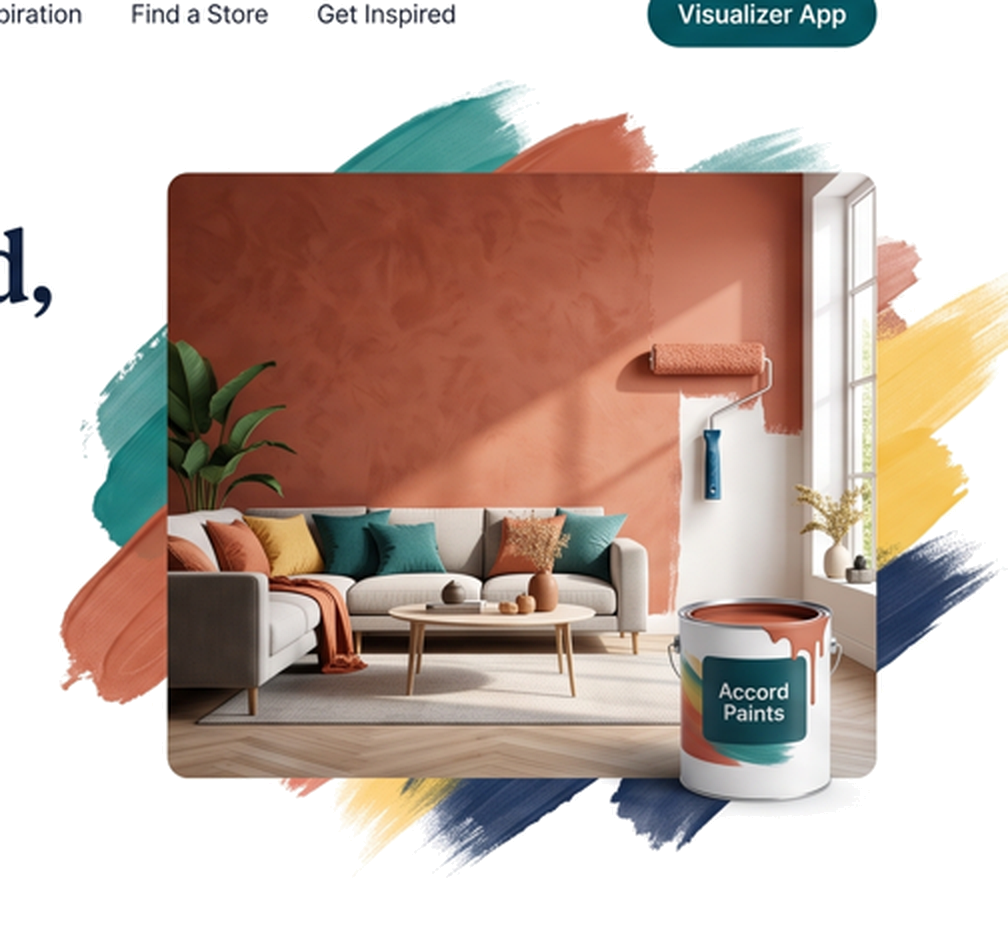
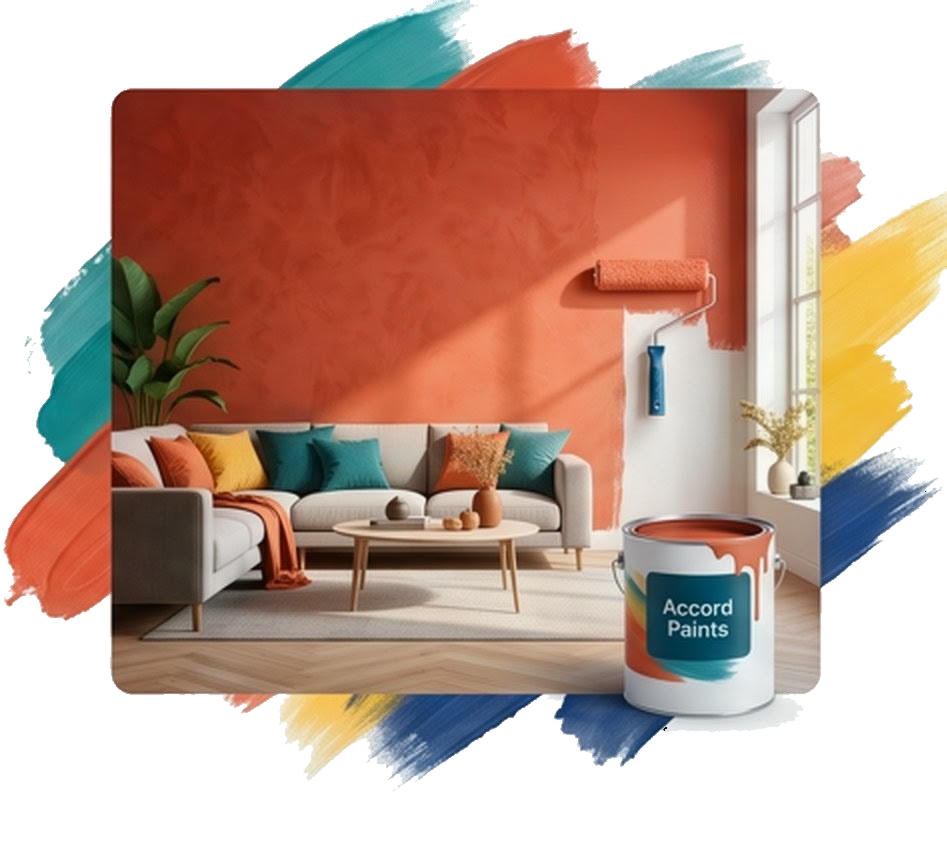
Replace hero visual with clean artwork without stray text

diff --git a/src/App.jsx b/src/App.jsx
@@ -1268,7 +1268,7 @@ export default function App() {
               >
                 {/* Authentic Mockup Visual with Painterly Acrylic Strokes, Living Room & Accord Paint Tin */}
                 <img
-                  src="/images/brand/hero-mockup-transparent.png"
+                  src="/images/brand/hero-mockup-transparent~2.png"
                   alt="Accord Paints Designer Living Room and Color Palette"
                   className="w-full h-auto object-contain select-none transition-transform duration-500 hover:scale-[1.015]"
                   draggable={false}
